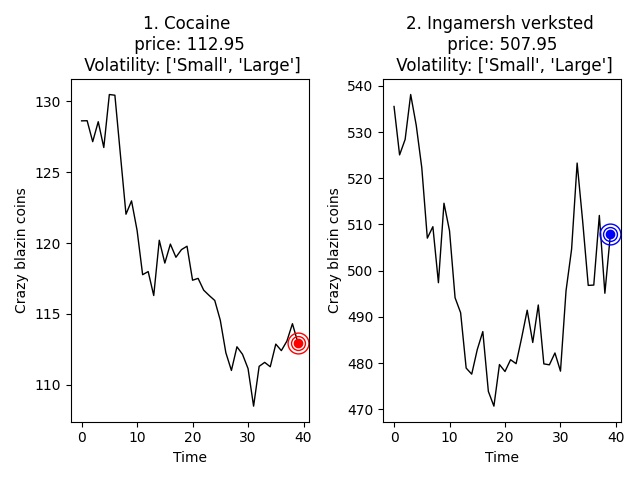
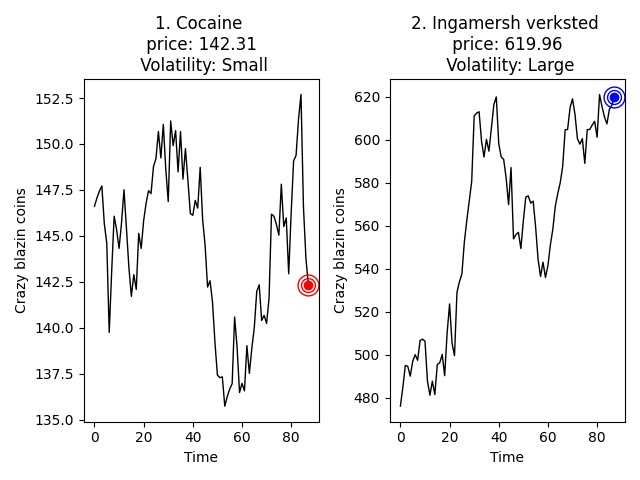
dark mode and minor fixesz

diff --git a/economy_bot/dev/web/templates/stonk.html b/economy_bot/dev/web/templates/stonk.html
@@ -13,7 +13,7 @@
 
   <style>
     body {
-      background-color: white;
+      background-color: rgba(255,255,255, 0.7);
     }
 
     #container {
@@ -100,8 +100,16 @@
     }
 
     .test {
-      height: 400px;
-      width: 400px;
+      height: 50%;
+      width: 50%;
+      justify-content: center;
+      margin: 0 auto;
+    }
+
+    .stonkbtns {
+      margin-top: 24px;
+      margin-left: 24px;
+      font-size: 16px;
     }
   </style>
 
@@ -115,15 +123,13 @@
     integrity="sha512-q/dWJ3kcmjBLU4Qc47E4A9kTB4m3wuTY7vkFJDTZKjTs8jhyGQnaUrxa0Ytd0ssMZhbNua9hE+E7Qv1j+DyZwA=="
     crossorigin="anonymous"></script>
   <script src="https://cdn.jsdelivr.net/npm/chart.js"></script>
+  <div class="stonkbtns">
+    <div class="btn btn-dark" type="button">Darkmode</div>
+    <div class="btn btn-light" type="button">Lightmode</div>
+  </div>
   <div class="test">
     <canvas id="myChart"></canvas>
     <canvas id="myChart2"></canvas>
-  </div>
-  <div style="display:none;">
-    <img id="source"
-         style="color: pink;"
-         src="https://upload.wikimedia.org/wikipedia/commons/1/18/Double-barred_dollar_sign.svg"
-         width="8" height="8">
   </div>
   <script>
     const xAxis = [];
@@ -156,7 +162,7 @@
       options: {
         elements: {
           point: {
-            pointStyle: image
+            pointStyle: 'circle'
           },
           line: {
             borderWidth: 2,
@@ -166,7 +172,7 @@
           title: {
             display: true,
             text: 'Current value: ' + 0 //data.y1[data.y1.length - 1]
-          }
+          },
         }
       }
     };
@@ -182,8 +188,7 @@
       options: {
         elements: {
           point: {
-            pointStyle: image,
-            backgroundColor: 'green',
+            pointStyle: 'circle',
           },
           line: {
             borderWidth: 2,
@@ -201,6 +206,40 @@
       document.getElementById('myChart2'),
       config2
     );
+
+    const theme = localStorage.getItem('theme');
+    if (theme === 'dark') {
+      document.body.style.backgroundColor = '#1D2021';
+      myChart.options.plugins.title.color = 'rgba(255,255,255, 0.7)';
+      myChart2.options.plugins.title.color = 'rgba(255,255,255, 0.7)';
+      myChart.update();
+      myChart2.update();
+    } else if (theme === 'light') {
+      document.body.style.backgroundColor = 'rgba(255,255,255, 0.7)';
+      myChart.options.plugins.title.color = 'rgba(28, 28, 28, 1)';
+      myChart2.options.plugins.title.color = 'rgba(28, 28, 28, 1)';
+      myChart.update();
+      myChart2.update();
+    }
+    const darkBtn = document.getElementsByClassName("btn-dark")[0];
+    darkBtn.onclick = () => {
+      localStorage.setItem('theme', 'dark');
+      document.body.style.backgroundColor = '#1D2021';
+      myChart.options.plugins.title.color = 'rgba(255,255,255, 0.7)';
+      myChart2.options.plugins.title.color = 'rgba(255,255,255, 0.7)';
+      myChart.update();
+      myChart2.update();
+    };
+    const lightBtn = document.getElementsByClassName("btn-light")[0];
+    lightBtn.onclick = () => {
+      localStorage.setItem('theme', 'light');
+      document.body.style.backgroundColor = 'rgba(255,255,255, 0.7)';
+      myChart.options.plugins.title.color = '#1D2021';
+      myChart2.options.plugins.title.color = '#1D2021';
+      myChart.update();
+      myChart2.update();
+    };
+
     socket = io();
 
     socket.on('connect', function (sid, environ) {
@@ -208,6 +247,7 @@
     });
 
     socket.on('clientMsg', function (data) {
+      const theme = localStorage.getItem('theme');
       console.log('Received a message from the server!', data);
 
       const xAxis = data.x.map(x => x.toString());
@@ -221,11 +261,14 @@
       myChart.data.datasets[0].data = properData;
       myChart.data.labels = properData.map(x => x.x);
       myChart.options.plugins.title.text = 'Current value: ' + properData[properData.length - 1].y;
+      myChart.options.plugins.title.font.size = 48;
+
       myChart.update();
 
       myChart2.data.datasets[0].data = properData2;
       myChart2.data.labels = properData2.map(x => x.x);
       myChart2.options.plugins.title.text = 'Current value: ' + properData2[properData2.length - 1].y;
+      myChart2.options.plugins.title.font.size = 48;
 
       myChart2.update();
     });

diff --git a/economy_bot/dev/cbm_dev.py b/economy_bot/dev/cbm_dev.py
@@ -136,10 +136,13 @@ class Stonks:
     
     def move_price(self):
         self.price.append(round(self.drift + self.price[-1] + np.random.normal(0, self.variance), 2))
+        price_collapse = False
         if self.price[-1] <= 0:
-            self.price[-1] = 1
+            self.price[-1] = 153
+            price_collapse = True
 
         self.current_price = round(self.price[-1], 2)
+        return price_collapse
 
     @staticmethod
     def plot_results():
@@ -167,7 +170,7 @@ class Stonks:
 
 
 
-cocaine = Stonks(name = 'Cocaine', init_price = 146.61, drift = 0.02, variance = 2)
+cocaine = Stonks(name = 'Cocaine', init_price = 146.61, drift = 0.04, variance = 2)
 Ingamersh = Stonks(name = 'Ingamersh verksted', init_price = 476.17, drift = 0.01, variance = 10)
 
 
@@ -309,7 +312,13 @@ class MyClient(discord.Client):
 
 
         for stonk in Stonks.stonks:
-            stonk.move_price() # move cocaine price
+            price_collapse = stonk.move_price() # move cocaine price
+            if price_collapse: # Remove all if price collapse
+                for key in users:
+                    if stonk.name == 'Ingamersh verksted':
+                        users[key]['ingamersh'] = 0
+                    if stonk.name == 'Cocaine':
+                        users[key]['cocaine'] = 0
         Stonks.plot_results()
 
 
@@ -650,7 +659,7 @@ async def on_message(message):
 
 
     if message.content.startswith('!stonks'):
-        embed = discord.Embed(title=f"Stonks", description=f"Historical and current price of stonks. Buy item use !buy stonks <index> <amount> and !sell stonks <index> <amount>. You can view stonks in real time at http://5eb1bcab2782.ngrok.io/stonk") #,color=Hex code
+        embed = discord.Embed(title=f"Stonks", description=f"Historical and current price of stonks. Buy item use !buy stonks <index> <amount> and !sell stonks <index> <amount>. You can view stonks in real time at http://5eb1bcab2782.ngrok.io/stonks") #,color=Hex code
         file = discord.File("stonk.jpg", filename="stonk.jpg")
         await message.channel.send(file = file, embed=embed)
 

diff --git a/economy_bot/dev/test.py b/economy_bot/dev/test.py
@@ -9,12 +9,15 @@ import numpy as np
 #     print(KeyError)
 
 
-price = [53]
-for i in range(1, 100000):
-    price.append(0.02 + price[-1] + np.random.normal(0,2))
-    if price[-1] <= 0:
-        price[-1] = 1
 
 
-plt.plot(price)
+for l in range(0, 5):
+    price = [53]
+    for i in range(1, 100000):
+        price.append(0.01 + price[-1] + np.random.normal(0,1))
+        # if price[-1] <= 0:
+        #     price[-1] = 1
+
+
+    plt.plot(price)
 plt.show()

diff --git a/economy_bot/dev/web/server.py b/economy_bot/dev/web/server.py
@@ -201,7 +201,7 @@ def obs_donation():
     return render_template('obs_donation.html')
 
 
-@app.route("/stonk")
+@app.route("/stonks")
 def stonk():
     return render_template('stonk.html')
 
